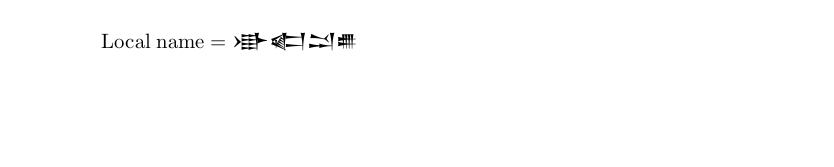
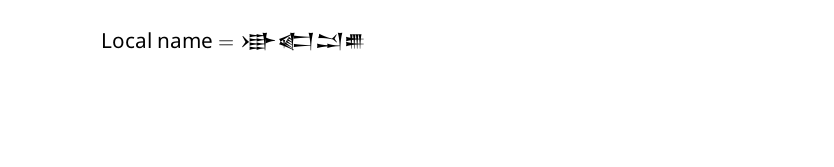
More updates for Noto.

Changed region(s): [[0.1247, 0.1796, 0.4365, 0.2994]]

diff --git a/docs/news/whats-new-in-babel-25.6.md b/docs/news/whats-new-in-babel-25.6.md
@@ -1,25 +1,30 @@
-# What's new in babel 25.5
+# What's new in babel 25.6
 
 **Draft.**
 
 ## Transforms
 
-The experimental transform `spacing.basic` in Chinese and Japanese has
-been thoroughly revised an can be considered essentially stable. As its
-name suggest, its a basic and general purpose set of rules giving a more or
-less reasonable result on average with many fonts.
+The experimental transform `spacing.basic` for Chinese and Japanese has
+undergone thorough revision and is now considered essentially stable.
+As its name suggests, it provides a basic, general-purpose set of rules
+that deliver on average a reasonably result across various fonts.
 
-One of the problems is the design can be different in some characters,
-particularly the quotation, question and exclamation marks. The new
-transform settings has been tested in about 80 CJK fonts. Also the
-full-width colon and semicolon may have different visual appearance.
-This transforms assumes:
+One issue is the design of certain characters, such as quotation
+marks, question marks, and exclamation marks, can vary. The new
+transform settings have been tested on approximately 80 CJK fonts.
+Additionally, the full-width colon and semicolon may exhibit different
+visual appearances. These transforms assume:
 
-* Full-width question and exclamation marks, no matter its design
-  (which can be left-aligned, narrow centered, and wide centered).
-  Lines ending with ?, ! can look slightly short in some fonts (for
-  example, Noto).
-
+* Left-aligned periods and commas (e.g., 、。).
+* Full-width question and exclamation marks. However, these marks may
+  vary in design, appearing as left-aligned, narrow centered, or wide
+  centered. Lines ending with ? or ! can appear slightly short in
+  certain fonts (e.g., Noto). To address this, the `microtype` package
+  can be used; for example:
+```tex
+\usepackage[protrusion=true, expansion=false]{microtype}
+\SetProtrusion{ encoding = TU }{？={,100}}
+```
 * Full-width quotation marks. Proportional marks can be ‘converted’
 to full width with:
 ```tex
@@ -32,9 +37,9 @@ to full width with:
   {}
 }
 ```
-* Centered colon and semicolon. With left-align designs, lines can look
-  slightly short. An option is to ‘covert’ them to centered designs
-  with:
+* Centered colon and semicolon. For left-aligned designs, lines may
+  appear slightly short. These marks can be ‘converted’ to centered
+  designs with:
 ```tex
 \babelposthyphenation{japanese}{ [：；] }{
   { insert, norule = .25 0 0},

diff --git a/docs/guides/locale-hmongnjua.md b/docs/guides/locale-hmongnjua.md
@@ -10,7 +10,7 @@ Hmong Njua language using the Nyiakeng Puachue Hmong script.
 ## Support with `ini` locale file
 
 Here is a minimal sample file with `hmongnjua` as the main language
-(assuming `luatex`, which is the recommended engine, and `babel` ≥24.14,
+(assuming `luatex`, which is the recommended engine, and `babel` ≥25.2,
 although it may work with previous versions).
 
 ```tex
@@ -18,11 +18,7 @@ although it may work with previous versions).
 
 \usepackage[provide={mapdigits}]{babel}
 
-\babelfont{rm}{Noto Serif Hmong Nyiakeng}
-
-% The next 2 lines make sure the Latin script is displayed.
-\babelprovide[onchar=fonts letters]{english}
-\babelfont[english]{rm}{NewComputerModern10}
+\babelfont{rm}{Noto Serif NP Hmong}
 
 \begin{document}
 
@@ -36,13 +32,12 @@ Digits $=$ \localenumeral{digits}{0123456789}
 ```
 
 ![](../media/locale-hmongnjua.png)
-
 You may need download the font or replace it with another one in your
 system.
 
 ## Contribute
 
 If you are a native speaker or have expertise in this language, you can
-contribute, make suggestion or request an enhancement by submitting a
+contribute, make suggestions or request enhancements by submitting a
 pull request, opening an issue, or contacting the Babel maintainer with
 the link above.

diff --git a/docs/guides/locale-tibetan.md b/docs/guides/locale-tibetan.md
@@ -11,7 +11,7 @@ Tibetan language using the Tibetan script.
 ## Support with `ini` locale file
 
 Here is a minimal sample file with `tibetan` as the main language
-(assuming `luatex`, which is the recommended engine, and `babel` ≥24.14,
+(assuming `luatex`, which is the recommended engine, and `babel` ≥25.2,
 although it may work with previous versions).
 
 ```tex
@@ -19,11 +19,7 @@ although it may work with previous versions).
 
 \usepackage[provide={mapdigits}]{babel}
 
-\babelfont{rm}{Noto Serif Tibetan}
-
-% The next 2 lines make sure the Latin script is displayed.
-\babelprovide[onchar=fonts letters]{english}
-\babelfont[english]{rm}{NewComputerModern10}
+\babelfont{rm}{Noto Serif Living}
 
 \begin{document}
 
@@ -39,13 +35,12 @@ Digits $=$ \localenumeral{digits}{0123456789}
 ```
 
 ![](../media/locale-tibetan.png)
-
 You may need download the font or replace it with another one in your
 system.
 
 ## Contribute
 
 If you are a native speaker or have expertise in this language, you can
-contribute, make suggestion or request an enhancement by submitting a
+contribute, make suggestions or request enhancements by submitting a
 pull request, opening an issue, or contacting the Babel maintainer with
 the link above.

diff --git a/docs/guides/locale-dzongkha.md b/docs/guides/locale-dzongkha.md
@@ -10,7 +10,7 @@ Dzongkha language using the Tibetan script.
 ## Support with `ini` locale file
 
 Here is a minimal sample file with `dzongkha` as the main language
-(assuming `luatex`, which is the recommended engine, and `babel` ≥24.14,
+(assuming `luatex`, which is the recommended engine, and `babel` ≥25.2,
 although it may work with previous versions).
 
 ```tex
@@ -18,11 +18,7 @@ although it may work with previous versions).
 
 \usepackage[provide=*]{babel}
 
-\babelfont{rm}{Noto Serif Tibetan}
-
-% The next 2 lines make sure the Latin script is displayed.
-\babelprovide[onchar=fonts letters]{english}
-\babelfont[english]{rm}{NewComputerModern10}
+\babelfont{rm}{Noto Serif Living}
 
 \begin{document}
 
@@ -36,13 +32,12 @@ Digits $=$ \localenumeral{digits}{0123456789}
 ```
 
 ![](../media/locale-dzongkha.png)
-
 You may need download the font or replace it with another one in your
 system.
 
 ## Contribute
 
 If you are a native speaker or have expertise in this language, you can
-contribute, make suggestion or request an enhancement by submitting a
+contribute, make suggestions or request enhancements by submitting a
 pull request, opening an issue, or contacting the Babel maintainer with
 the link above.

diff --git a/docs/guides/locale-akkadian.md b/docs/guides/locale-akkadian.md
@@ -10,7 +10,7 @@ Akkadian language using the Sumero-Akkadian Cuneiform script.
 ## Support with `ini` locale file
 
 Here is a minimal sample file with `akkadian` as the main language
-(assuming `luatex`, which is the recommended engine, and `babel` ≥24.14,
+(assuming `luatex`, which is the recommended engine, and `babel` ≥25.2,
 although it may work with previous versions).
 
 ```tex
@@ -20,10 +20,6 @@ although it may work with previous versions).
 
 \babelfont{rm}{Noto Sans Cuneiform}
 
-% The next 2 lines make sure the Latin script is displayed.
-\babelprovide[onchar=fonts letters]{english}
-\babelfont[english]{rm}{NewComputerModern10}
-
 \begin{document}
 
 Local name $=$ 𒀝𒅗𒁺𒌑
@@ -32,13 +28,12 @@ Local name $=$ 𒀝𒅗𒁺𒌑
 ```
 
 ![](../media/locale-akkadian.png)
-
 You may need download the font or replace it with another one in your
 system.
 
 ## Contribute
 
 If you are a native speaker or have expertise in this language, you can
-contribute, make suggestion or request an enhancement by submitting a
+contribute, make suggestions or request enhancements by submitting a
 pull request, opening an issue, or contacting the Babel maintainer with
 the link above.

diff --git a/docs/guides/locale-lineara.md b/docs/guides/locale-lineara.md
@@ -10,7 +10,7 @@ Linear A language using the Linear A script.
 ## Support with `ini` locale file
 
 Here is a minimal sample file with `lineara` as the main language
-(assuming `luatex`, which is the recommended engine, and `babel` ≥24.14,
+(assuming `luatex`, which is the recommended engine, and `babel` ≥25.2,
 although it may work with previous versions).
 
 ```tex
@@ -20,23 +20,20 @@ although it may work with previous versions).
 
 \babelfont{rm}{Noto Sans Linear A}
 
-% The next 2 lines make sure the Latin script is displayed.
-\babelprovide[onchar=fonts letters]{english}
-\babelfont[english]{rm}{NewComputerModern10}
-
 \begin{document}
+
+Sample characters = 𐘊𐙋𐘃𐘼𐘭𐘍𐘛
 
 \end{document}
 ```
 
 ![](../media/locale-lineara.png)
-
 You may need download the font or replace it with another one in your
 system.
 
 ## Contribute
 
 If you are a native speaker or have expertise in this language, you can
-contribute, make suggestion or request an enhancement by submitting a
+contribute, make suggestions or request enhancements by submitting a
 pull request, opening an issue, or contacting the Babel maintainer with
 the link above.
